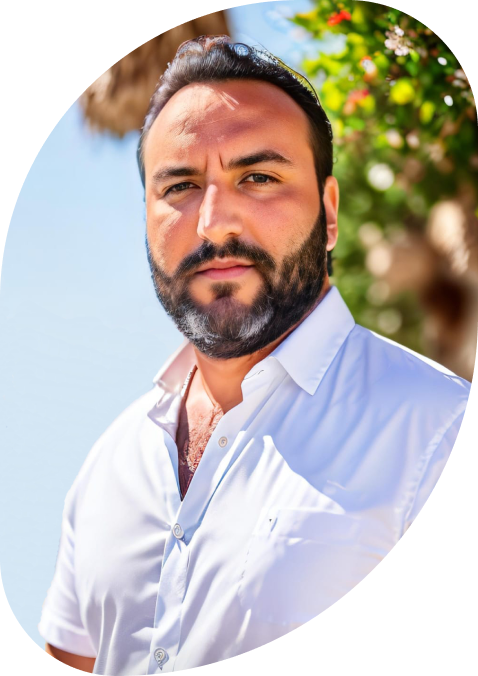
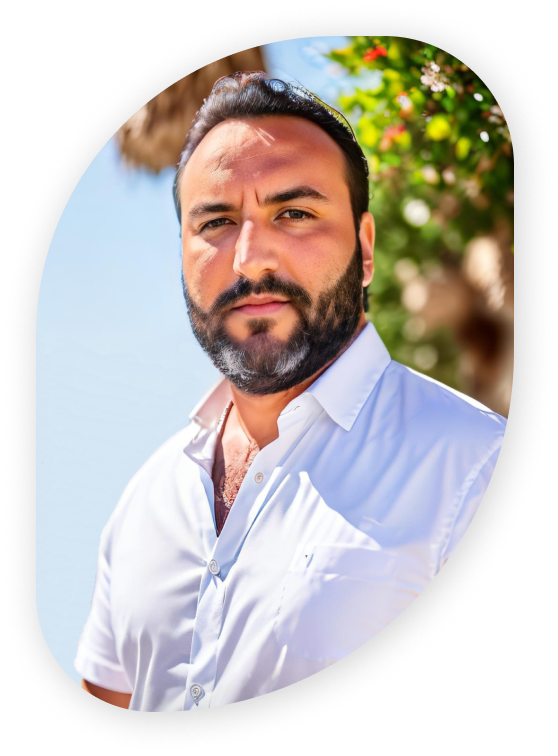
Changes some images and fixed dimensions in desktop view

diff --git a/css/style.css b/css/style.css
@@ -1174,10 +1174,10 @@ pre {
 
 @media (min-width: 1200px) {
   .slider-item .bg-1 {
-    background-size: 38%;
+    background-size: 40%;
   }
   .slider-item .bg-2 {
-    background-size: 33%;
+    background-size: 40%;
   }
   .col-xl {
     -ms-flex-preferred-size: 0;
@@ -8461,7 +8461,7 @@ h1, h2, h3, h4, h5,
           .owl-carousel.home-slider .slider-item .slider-text {
             text-align: center; } }
         .owl-carousel.home-slider .slider-item .slider-text .one-third {
-          width: 70%;
+          width: 65%;
           position: relative;
           height: 750px;
           z-index: -1;
